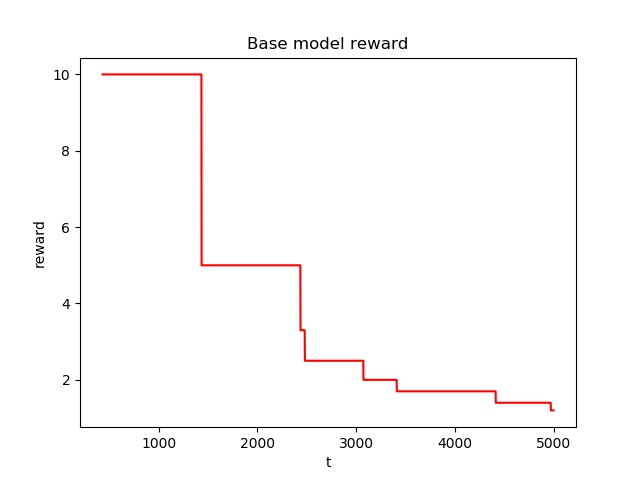
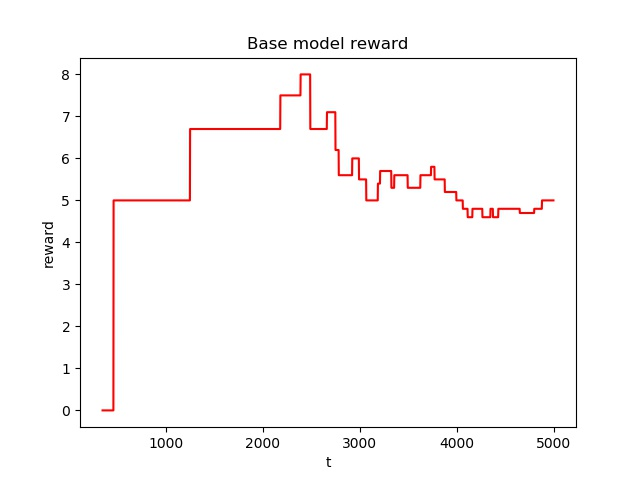
added baselines

diff --git a/dqn_tensorflow.py b/dqn_tensorflow.py
@@ -114,8 +114,7 @@ def main():
         print("-----\ntraining transfer model on test enviroment\n-----")
         transfer_statistics = run_deepq(model if model else 'cnn', transfer_enviroment, total_timesteps=t, name="transfer")
         print('mean reward: ', np.mean(np.array(transfer_statistics['rewards'])))
-    #with tf.Session():
-        #with tf.variable_scope("non-transfer-model"):
+        
         model = make_model()
         print("-----\ntraining non-transfer model on test enviroment\n-----")
         transfer_enviroment_base_model_statistics = run_deepq(model if model else 'cnn', transfer_enviroment, total_timesteps=t, name="transfer")
